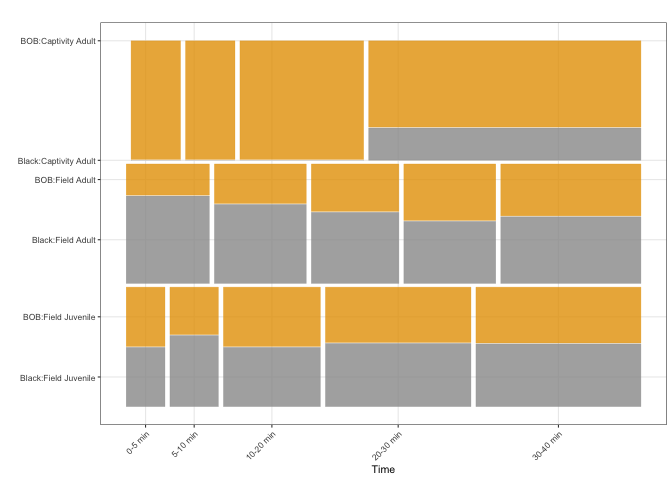
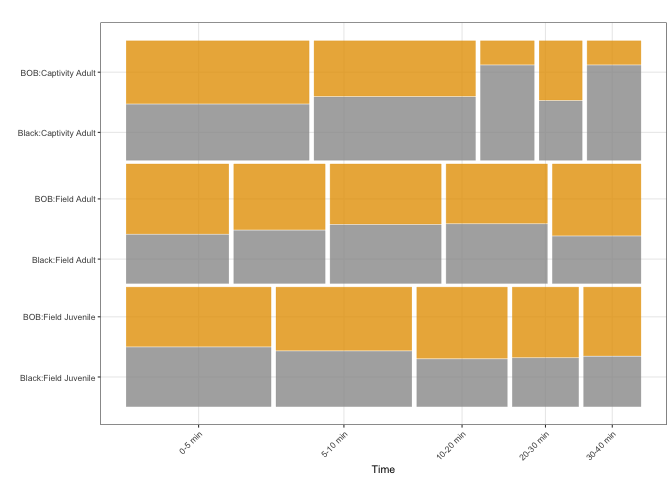
segunda version

diff --git a/report2.md b/report2.md
@@ -2,6 +2,13 @@
     prey](#experiments-of-spiders-with-live-prey)
     -   [Methods](#methods)
     -   [Results](#results)
+        -   [Association between sizes (not
+            included):](#association-between-sizes-not-included)
+        -   [Multinomial Model](#multinomial-model)
+        -   [Timelines (original version)](#timelines-original-version)
+        -   [Timelines (bar plots option)](#timelines-bar-plots-option)
+        -   [Re-coding of BOB for Table
+            1](#re-coding-of-bob-for-table-1)
 -   [Experiment of spiders with false prey in automated
     cage](#experiment-of-spiders-with-false-prey-in-automated-cage)
     -   [Methods](#methods-1)
@@ -269,14 +276,48 @@ statistically significant difference when included in the full model. It
 should however be noted that field-caught adults only attacked black
 wasps, and adults reared in captivity avoided only BOB wasps.
 
-### Timelines
+### Timelines (original version)
 
 ``` r
-options <- sort(unique(datos$h_resp3));options
+options <- sort(unique(datos$h_resp3))
+dat<-datos[datos$h_resp3=="Detect",] %>%
+  mutate(s_type=recode_factor(s_type,
+                              "Wild Juvenile"="Field-Juvenile",
+                              "Wild Adult"="Field-Adult",
+                              "Adult Captivity"="Captivity-Adult")) 
+
+ggplot(data = dat) +
+  geom_mosaic(data=dat,aes(x = product(w_color, time2), 
+                           fill=w_color, 
+                           conds=product(s_type)), 
+              na.rm=TRUE, divider=mosaic("v")) + 
+  scale_fill_manual(values=c("#999999", "#E69F00")) +
+  labs(x = "Time", title='', y="")+
+  theme(legend.position = "none") +
+  theme(axis.text.x = element_text(angle = 45, hjust = 1))
 ```
 
-    ## [1] Attack Detect Avoid 
-    ## Levels: Attack Detect Avoid
+![](report2_files/figure-markdown_github/unnamed-chunk-7-1.png)
+
+``` r
+dat<-datos[datos$h_resp3=="Attack",] %>%
+  mutate(s_type=recode_factor(s_type,
+                              "Wild Juvenile"="Field-Juvenile",
+                              "Wild Adult"="Field-Adult",
+                              "Adult Captivity"="Captivity-Adult")) 
+
+ggplot(data = dat) +
+  geom_mosaic(data=dat,aes(x = product(w_color, time2), 
+                           fill=w_color, 
+                           conds=product(s_type)), 
+              na.rm=TRUE, divider=mosaic("v")) + 
+  scale_fill_manual(values=c("#999999", "#E69F00")) +
+  labs(x = "Time", title='', y="")+
+  theme(legend.position = "none") +
+  theme(axis.text.x = element_text(angle = 45, hjust = 1))
+```
+
+![](report2_files/figure-markdown_github/unnamed-chunk-7-2.png)
 
 ``` r
 dat<-datos[datos$h_resp3=="Avoid",] %>%
@@ -296,7 +337,67 @@ ggplot(data = dat) +
   theme(axis.text.x = element_text(angle = 45, hjust = 1))
 ```
 
-![](report2_files/figure-markdown_github/unnamed-chunk-7-1.png)
+![](report2_files/figure-markdown_github/unnamed-chunk-7-3.png)
+
+### Timelines (bar plots option)
+
+``` r
+options <- sort(unique(datos$h_resp3))
+dat<-datos[datos$h_resp3=="Detect",] %>%
+  mutate(s_type=recode_factor(s_type,
+                              "Wild Juvenile"="Field-Juvenile",
+                              "Wild Adult"="Field-Adult",
+                              "Adult Captivity"="Captivity-Adult")) %>% 
+  group_by(s_type, w_color, time2) %>% summarise(n=n())
+
+  ggplot(data=dat, aes(x=time2, y=n, fill=w_color)) +
+  geom_bar(stat="identity") + 
+  facet_wrap(~s_type, ncol=5)+
+  scale_fill_manual(values=c("#999999", "#E69F00")) +
+  labs(x = "Time", title='', y="")+
+  theme(legend.position = "none") +
+  theme(axis.text.x = element_text(angle = 45, hjust = 1))
+```
+
+![](report2_files/figure-markdown_github/unnamed-chunk-8-1.png)
+
+``` r
+dat<-datos[datos$h_resp3=="Attack",] %>%
+  mutate(s_type=recode_factor(s_type,
+                              "Wild Juvenile"="Field-Juvenile",
+                              "Wild Adult"="Field-Adult",
+                              "Adult Captivity"="Captivity-Adult")) %>% 
+  group_by(s_type, w_color, time2) %>% summarise(n=n())
+
+  ggplot(data=dat, aes(x=time2, y=n, fill=w_color)) +
+  geom_bar(stat="identity") + 
+  facet_wrap(~s_type, ncol=5)+
+  scale_fill_manual(values=c("#999999", "#E69F00")) +
+  labs(x = "Time", title='', y="")+
+  theme(legend.position = "none") +
+  theme(axis.text.x = element_text(angle = 45, hjust = 1))
+```
+
+![](report2_files/figure-markdown_github/unnamed-chunk-8-2.png)
+
+``` r
+dat<-datos[datos$h_resp3=="Avoid",] %>%
+  mutate(s_type=recode_factor(s_type,
+                              "Wild Juvenile"="Field-Juvenile",
+                              "Wild Adult"="Field-Adult",
+                              "Adult Captivity"="Captivity-Adult")) %>% 
+  group_by(s_type, w_color, time2) %>% summarise(n=n())
+
+  ggplot(data=dat, aes(x=time2, y=n, fill=w_color)) +
+  geom_bar(stat="identity") + 
+  facet_wrap(~s_type, ncol=5)+
+  scale_fill_manual(values=c("#999999", "#E69F00")) +
+  labs(x = "Time", title='', y="")+
+  theme(legend.position = "none") +
+  theme(axis.text.x = element_text(angle = 45, hjust = 1))
+```
+
+![](report2_files/figure-markdown_github/unnamed-chunk-8-3.png)
 
 ### Re-coding of BOB for Table 1
 
